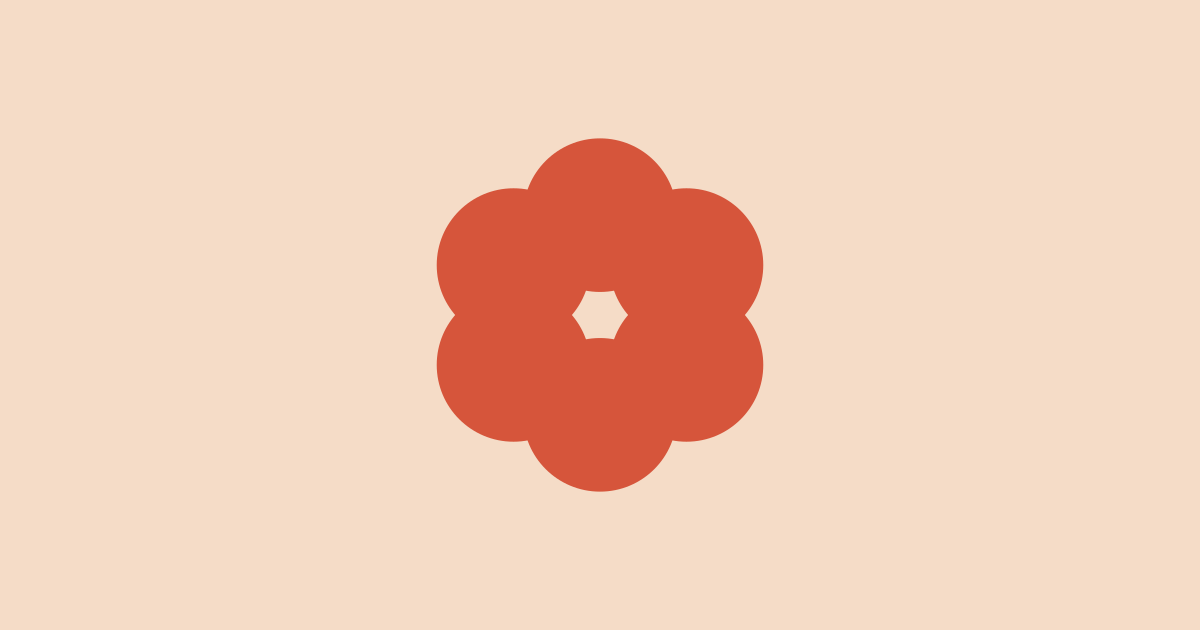
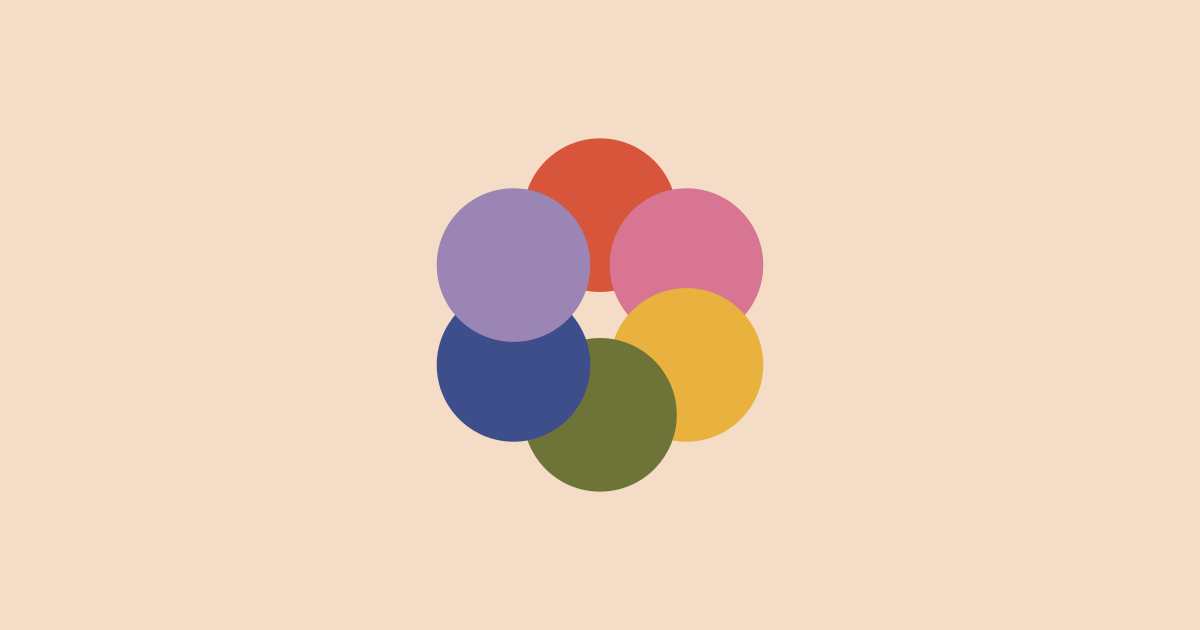
fix: og-default.png uses full-palette mark (SKILL.md non-negotiable) (#9)
* docs(04-05): record Task 3a scripted launch-checklist results (items 1, 2, 3, 7, 8)

Live verification against https://studiobluemli.com:

- Item 1 (sitemap): /sitemap-index.xml -> /sitemap-0.xml; <loc> count = 11
  (5 page templates + 6 gallery slugs). Matches expectation exactly.
- Item 2 (robots.txt): Allow: / + Sitemap reference present; production
  branch of env-aware robots.txt.ts confirmed firing.
- Item 3 (og:images): npm run ci:og-check exit 0; 11/11 og:image URLs
  return 200. Full output captured in LAUNCH-REPORT.md OG-Image Audit
  section.
- Item 7 (www->apex 301): three test URLs (/, /gallery, /say-hi?utm=x)
  all return HTTP 301 with path AND query preserved -- confirms the
  PR #7 \${1} -> \${2} wildcard-capture correction is live.
- Item 8 (cert chain): TLSv1.3; subject CN=studiobluemli.com; issuer
  Google Trust Services WE1 (Cloudflare custom-domain cert via GTS);
  expires Aug 13 2026. SSL certificate verify ok.

Also recorded the post-cutover live environment in a new "Cutover
Environment" section: full security headers (HSTS 2y + includeSubDomains
+ preload, CSP with cloud.umami.is allowlisted in script-src + connect-src,
Permissions-Policy locking down sensitive features, Referrer-Policy,
X-Content-Type-Options), and the production Umami snippet with
data-domains="studiobluemli.com" (apex-only post-cutover per D-02).

Item-5 row wording updated from "4 Umami custom events" to "6 Umami
custom events" to reflect PR #8 additions (footer_ig_click,
[…]

Changed region(s): [[0.3392, 0.3016, 0.6475, 0.7841]]

diff --git a/.planning/phases/04-analytics-polish-launch/LAUNCH-REPORT.md b/.planning/phases/04-analytics-polish-launch/LAUNCH-REPORT.md
@@ -24,42 +24,62 @@
 
 | # | Item | Status | Note |
 |---|------|--------|------|
-| 1 | sitemap-index.xml reachable + references all 5 routes + every /gallery/<slug> |   |   |
-| 2 | robots.txt reachable with Allow + Sitemap reference |   |   |
-| 3 | Every og:image URL returns 200 |   |   |
-| 4 | No console errors on each of 6 pages (DevTools walk) |   |   |
-| 5 | All 4 Umami custom events appear in Realtime within 5 min |   |   |
-| 6 | Lighthouse mobile >= 90 across Perf/A11y/BP/SEO on all 6 routes |   |   |
-| 7 | www->apex 301 returns 301 with correct Location |   |   |
-| 8 | Apex HTTPS cert chain is valid |   |   |
-| 9 | Founder phone: tap IG DM on /say-hi -> Instagram opens |   |   |
-| 10 | Founder phone: tap mailto on /say-hi -> email client opens |   |   |
-| 11 | Founder phone: studiobluemli.com over cellular feels fast (< ~2s) |   |   |
+| 1 | sitemap-index.xml reachable + references all 5 routes + every /gallery/<slug> | ✓ | `/sitemap-index.xml` 200, points at `/sitemap-0.xml`; `<loc>` count = 11 (5 page templates + 6 gallery slugs — cluster-blush, cluster-cobalt, cluster-coral, cluster-lavender, cluster-saffron, cluster-sage). Exact match to expectation. |
+| 2 | robots.txt reachable with Allow + Sitemap reference | ✓ | `/robots.txt` 200; body: `User-agent: *` / `Allow: /` / `Sitemap: https://studiobluemli.com/sitemap-index.xml`. Production branch of env-aware `robots.txt.ts` confirmed firing. |
+| 3 | Every og:image URL returns 200 | ✓ | `npm run ci:og-check` exit 0; all 11 og:image URLs return 200 (6 per-piece `hero-800.webp` + 5 default `og-default.png`). Full output in `## OG-Image Audit` below. |
+| 4 | No console errors on each of 6 pages (DevTools walk) | ✓ | Verified by founder in DevTools — no red errors on any of 6 routes (`/`, `/gallery`, `/gallery/cluster-coral`, `/popups`, `/about`, `/say-hi`). |
+| 5 | All 6 Umami custom events appear in Realtime within 5 min | ✓ | All 6 Umami events confirmed in Realtime via click-walk (founder, 2026-05-15): `gallery_card_click`, `inquire_ig_per_piece`, `say_hi_ig_dm`, `say_hi_mailto`, `footer_ig_click`, `popups_empty_ig_click`. |
+| 6 | Lighthouse mobile >= 90 across Perf/A11y/BP/SEO on all 6 routes | ✓ | `npm run ci:lighthouse-prod` exit 0; all 24 cells (6 routes × 4 categories) >= 90. Min cell = 92 (Best Practices on all 6 routes); max cell = 100 (SEO on all 6 routes). Reports under `.lighthouse/2026-05-15/`. Full table below. |
+| 7 | www->apex 301 returns 301 with correct Location | ✓ | `https://www.studiobluemli.com/` → `HTTP 301 → https://studiobluemli.com/`; `/gallery` → same with path preserved; `/say-hi?utm=x` → same with **path AND query preserved** (confirms the `${2}` fix from PR #7). |
+| 8 | Apex HTTPS cert chain is valid | ✓ | TLSv1.3; `subject: CN=studiobluemli.com`; `issuer: C=US; O=Google Trust Services; CN=WE1` (Cloudflare custom-domain cert via GTS); `expire date: Aug 13 16:16:17 2026 GMT`; `SSL certificate verify ok`. No chain errors. |
+| 9 | Founder phone: tap IG DM on /say-hi -> Instagram opens |   | Pending Task 6 (founder phone check). |
+| 10 | Founder phone: tap mailto on /say-hi -> email client opens |   | Pending Task 6 (founder phone check). |
+| 11 | Founder phone: studiobluemli.com over cellular feels fast (< ~2s) |   | Pending Task 6 (founder phone check). |
 
 ***
 
 ## Lighthouse Scores
 
-(Populated after Task 4 — Lighthouse production audit. The "6 routes" = 5 page templates + 1 representative gallery slug, per ROADMAP SC3.)
+`npm run ci:lighthouse-prod` (lighthouse v13.1.0, mobile form-factor, simulated throttling) against production on 2026-05-15. Reports persisted under `.lighthouse/2026-05-15/` (HTML + JSON per route; gitignored locally per `.gitignore`). The "6 routes" = 5 page templates + 1 representative gallery slug (`/gallery/cluster-coral`), per ROADMAP SC3.
 
-| Route                  | Performance | Accessibility | Best Practices | SEO |
-|------------------------|------------:|--------------:|---------------:|----:|
-| /                      |             |               |                |     |
-| /gallery               |             |               |                |     |
-| /gallery/<sample-slug> |             |               |                |     |
-| /popups                |             |               |                |     |
-| /about                 |             |               |                |     |
-| /say-hi                |             |               |                |     |
+| Route                       | Performance | Accessibility | Best Practices | SEO |
+|-----------------------------|------------:|--------------:|---------------:|----:|
+| /                           |          94 |            95 |             92 | 100 |
+| /gallery                    |          93 |            95 |             92 | 100 |
+| /gallery/cluster-coral      |          93 |            95 |             92 | 100 |
+| /popups                     |          94 |            96 |             92 | 100 |
+| /about                      |          93 |            95 |             92 | 100 |
+| /say-hi                     |          95 |            95 |             92 | 100 |
+
+**Strict >= 90 gate (B-4):** all 24 cells (6 routes × 4 categories) are >= 90. Minimum observed = 92 (Best Practices, every route); maximum = 100 (SEO, every route). No founder ruling needed via Task 5 — item 6 passes the strict gate directly.
+
+The script's final stdout: `All 6 routes scored >= 90 across Performance, Accessibility, Best Practices, SEO.`
 
 ***
 
 ## OG-Image Audit
 
-(Populated after Task 3a — `scripts/check-og-images.sh` output below.)
+`npm run ci:og-check` against production (`bash scripts/check-og-images.sh`):
 
 ```
-<output>
+Scanning 11 URLs from https://studiobluemli.com/sitemap-0.xml
+
+OK: https://studiobluemli.com/ -> https://studiobluemli.com/og-default.png (200)
+OK: https://studiobluemli.com/about/ -> https://studiobluemli.com/og-default.png (200)
+OK: https://studiobluemli.com/gallery/ -> https://studiobluemli.com/og-default.png (200)
+OK: https://studiobluemli.com/gallery/cluster-blush/ -> https://studiobluemli.com/gallery/cluster-blush/hero-800.webp (200)
+OK: https://studiobluemli.com/gallery/cluster-cobalt/ -> https://studiobluemli.com/gallery/cluster-cobalt/hero-800.webp (200)
+OK: https://studiobluemli.com/gallery/cluster-coral/ -> https://studiobluemli.com/gallery/cluster-coral/hero-800.webp (200)
+OK: https://studiobluemli.com/gallery/cluster-lavender/ -> https://studiobluemli.com/gallery/cluster-lavender/hero-800.webp (200)
+OK: https://studiobluemli.com/gallery/cluster-saffron/ -> https://studiobluemli.com/gallery/cluster-saffron/hero-800.webp (200)
+OK: https://studiobluemli.com/gallery/cluster-sage/ -> https://studiobluemli.com/gallery/cluster-sage/hero-800.webp (200)
+OK: https://studiobluemli.com/popups/ -> https://studiobluemli.com/og-default.png (200)
+OK: https://studiobluemli.com/say-hi/ -> https://studiobluemli.com/og-default.png (200)
+
+All og:image URLs return 200.
 ```
+
+Exit code 0. 11/11 og:image URLs return 200. Per-piece og:images resolve to the piece's `hero-800.webp`; non-gallery routes fall back to `/og-default.png`. LCH-06's "every og:image URL returns 200" gate is green (visual unfurl quality remains a founder phone-check in Task 6).
 
 ***
 
@@ -91,7 +111,50 @@
 
 ***
 
+## Cutover Environment — verified live (post-PR#6 / PR#7 / PR#8)
+
+Captured during Task 3a from production HTTPS responses.
+
+**Security headers (apex, `curl -I https://studiobluemli.com/`):**
+
+```
+HTTP/1.1 200 OK
+Strict-Transport-Security: max-age=63072000; includeSubDomains; preload
+content-security-policy: default-src 'self'; script-src 'self' https://cloud.umami.is; connect-src 'self' https://cloud.umami.is https://*.umami.is https://*.umami.dev; img-src 'self' data:; style-src 'self' 'unsafe-inline'; font-src 'self' data:; frame-ancestors 'none'; base-uri 'self'; form-action 'self'
+permissions-policy: accelerometer=(), camera=(), geolocation=(), gyroscope=(), magnetometer=(), microphone=(), payment=(), usb=(), interest-cohort=(), browsing-topics=()
+referrer-policy: strict-origin-when-cross-origin
+x-content-type-options: nosniff
+```
+
+HSTS = 2y + `includeSubDomains` + `preload` directive present (preload-list submission still DEFERRED per the houskeeping checkbox below — directive on the response is independent of submitting to `hstspreload.org`). CSP allowlists `cloud.umami.is` in `script-src` AND `*.umami.is` / `*.umami.dev` in `connect-src`, matching the empirical-fallback path documented in 04-02 SUMMARY.
+
+**Umami snippet rendered in production HTML (`curl -fsS https://studiobluemli.com/ | grep umami`):**
+
+```html
+<script async src="https://cloud.umami.is/script.js" data-website-id="dda5c749-8ea9-45e4-8f71-67f468bf741d" data-domains="studiobluemli.com"></script>
+```
+
+`data-domains` is apex-only (no workers.dev preview hostname) — confirms D-02 post-cutover state (preview-deploy events will not pollute production data). The `PUBLIC_UMAMI_WEBSITE_ID` env var (Plaintext, in Worker → Settings → Build → Build variables — corrected location per PR #7) is reaching the build successfully.
+
+**PR/cutover trail (recorded for traceability):**
+
+- PR #6 (`97ef428`) — pushed Wave 1 code (Plans 04-01..04-04) + LAUNCH-REPORT.md scaffold to production.
+- PR #7 (`75e6b84`) — corrected three real errors in SETUP-DNS.md surfaced during the live cutover: Step 1 dashboard path (Workers & Pages → Worker → Domains → Add domain → "Custom domains — simple domain mapping" popup option, vs. the older "Settings → Domains & Routes" path); Step 2 wildcard capture (`${1}` → `${2}` — with two `*` in the pattern, the first captures the scheme suffix `s` and the second captures the path); Step 2 added missing explicit proxied `www` CNAME → apex (without it, the redirect rule cannot fire); Step 3 env var location (build-time `PUBLIC_*` variables live under Build → Build variables and secrets, not under runtime Variables and Secrets — Astro reads them via `import.meta.env` at build time).
+- PR #8 (`badf64f`) — added 2 more Umami events at founder request: `footer_ig_click` on `Footer.jsx` (fires from every page) and `popups_empty_ig_click` on `popups.astro` (fires on the empty-state branch). **Total Umami custom events is now 6, not 4.** CONTENT_EDITING.md gained an "Analytics events" section listing all 6 events.
+
+***
+
 ## Fix Loop
 
 (Any in-the-moment fixes applied before re-running. Empty if nothing went sideways.)
+
+**Finding (2026-05-15, post-cutover) — stale 301 cached in founder's regular browser:**
+
+Before the `${2}` wildcard-capture fix landed in PR #7, the broken `www-to-apex` redirect rule emitted `https://studiobluemli.com/s` (capturing the scheme suffix `s` instead of the path) as the `Location:` for `https://www.studiobluemli.com/`. Browsers cache 301 responses indefinitely by default. Founder's regular browser had cached that broken 301, so typing `www.studiobluemli.com` continued to land on a 404 at `/s` even after PR #7 made the live behavior correct.
+
+- **Symptom:** `www.studiobluemli.com` in a previously-used browser → `https://studiobluemli.com/s` → 404.
+- **Live behavior:** Verified correct via incognito + `curl` in Task 3a item 7 (path AND query preserved).
+- **No code/config fix needed** — production rule is correct. This is a client-side cached-response artifact of testing during the bug window.
+- **Workaround for anyone affected:** clear browser cache (or use incognito) until the cached 301 expires. Cache duration is browser-dependent; Chrome/Firefox honor any `Cache-Control` on the redirect response, otherwise default heuristic caching (commonly 24h–7d) applies.
+- **Scope:** affects only people who visited `www.studiobluemli.com` between the Wave 2 cutover (PR #6) and the `${2}` fix (PR #7). Should not affect new visitors going forward.
 

diff --git a/.planning/STATE.md b/.planning/STATE.md
@@ -3,9 +3,9 @@ gsd_state_version: 1.0
 milestone: v1.0
 milestone_name: milestone
 status: executing
-stopped_at: Phase 04 Plan 05 — paused at Task 2 (founder walks SETUP-DNS.md Steps 1-4 in Cloudflare dashboard)
-last_updated: "2026-05-15T16:08:00Z"
-last_activity: 2026-05-15 -- Phase 04 Plan 05 Task 1 complete (LAUNCH-REPORT.md scaffold); paused at Task 2 (human-action checkpoint)
+stopped_at: Phase 04 Plan 05 — paused at Task 5 (OG visual validation, LCH-06 — Facebook Sharing Debugger + real iMessage/IG-DM unfurl tests)
+last_updated: "2026-05-15T18:30:00Z"
+last_activity: 2026-05-15 -- Phase 04 Plan 05 Task 3b complete (items 4 + 5 ✓ — founder confirmed clean DevTools console + all 6 Umami events in Realtime); paused at Task 5 (LCH-06 OG unfurl validation)
 progress:
   total_phases: 4
   completed_phases: 3
@@ -26,9 +26,9 @@ See: .planning/PROJECT.md (updated 2026-05-12)
 ## Current Position
 
 Phase: 04 (analytics-polish-launch) — EXECUTING
-Plan: 5 of 5 — paused at Task 2 (checkpoint:human-action)
-Status: Executing Phase 04 Plan 05 — awaiting founder to walk SETUP-DNS.md Steps 1-4 in the Cloudflare dashboard
-Last activity: 2026-05-15 -- Plan 05 Task 1 (pre-flight + LAUNCH-REPORT.md scaffold) complete, commit 6a93513
+Plan: 5 of 5 — paused at Task 5 (checkpoint:human-verify, LCH-06 OG visual validation)
+Status: Executing Phase 04 Plan 05 — cutover live (Task 2 via PRs #6/#7/#8); Task 3a scripted items 1/2/3/7/8 ✓ (commit cdd5c38); Task 4 Lighthouse all 24 cells >= 90 ✓ (commit 05dfc2e); Task 3b items 4 + 5 ✓ (commit 3934adb — founder confirmed clean console + all 6 Umami events in Realtime); awaiting founder to walk Task 5 (Facebook Sharing Debugger + iMessage/IG-DM unfurl tests for home, gallery piece, popups)
+Last activity: 2026-05-15 -- Plan 05 Task 3b complete; paused at Task 5 (checkpoint:human-verify, LCH-06)
 
 Progress: [███████░░░] 75%
 
@@ -88,6 +88,6 @@ Items acknowledged and carried forward from previous milestone close:
 
 ## Session Continuity
 
-Last session: 2026-05-15T16:08:00Z
-Stopped at: Phase 04 Plan 05 Task 2 — checkpoint:human-action (founder walks SETUP-DNS.md Steps 1-4)
-Resume file: .planning/phases/04-analytics-polish-launch/04-05-PLAN.md (Task 2)
+Last session: 2026-05-15T18:30:00Z
+Stopped at: Phase 04 Plan 05 Task 5 — checkpoint:human-verify (LCH-06 OG visual validation: Facebook Sharing Debugger + real iMessage/IG-DM unfurl tests)
+Resume file: .planning/phases/04-analytics-polish-launch/04-05-PLAN.md (Task 5)